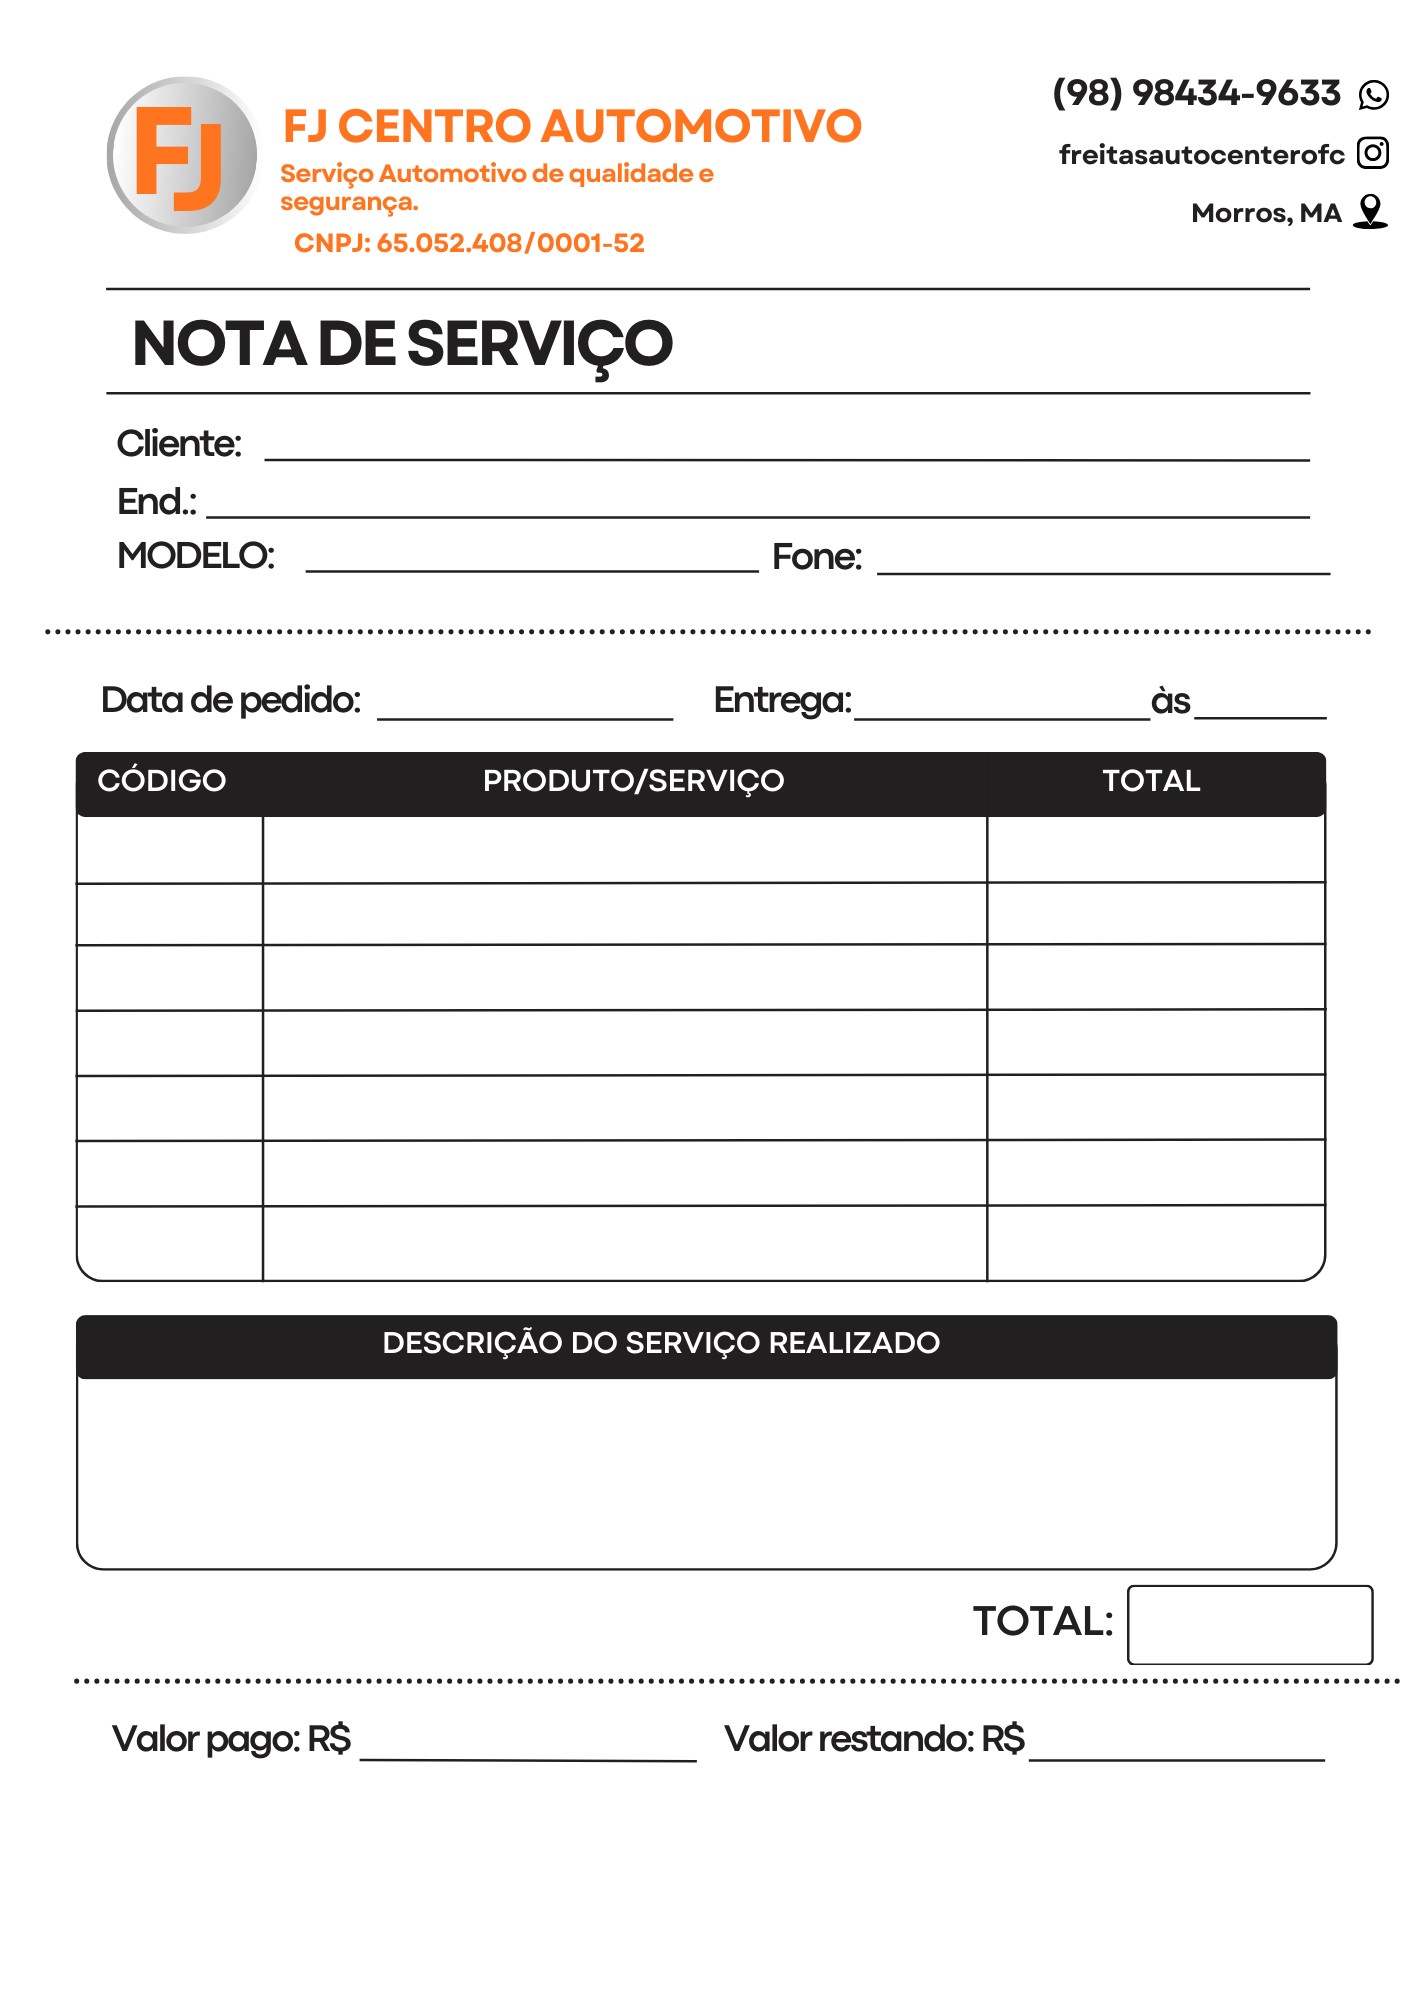
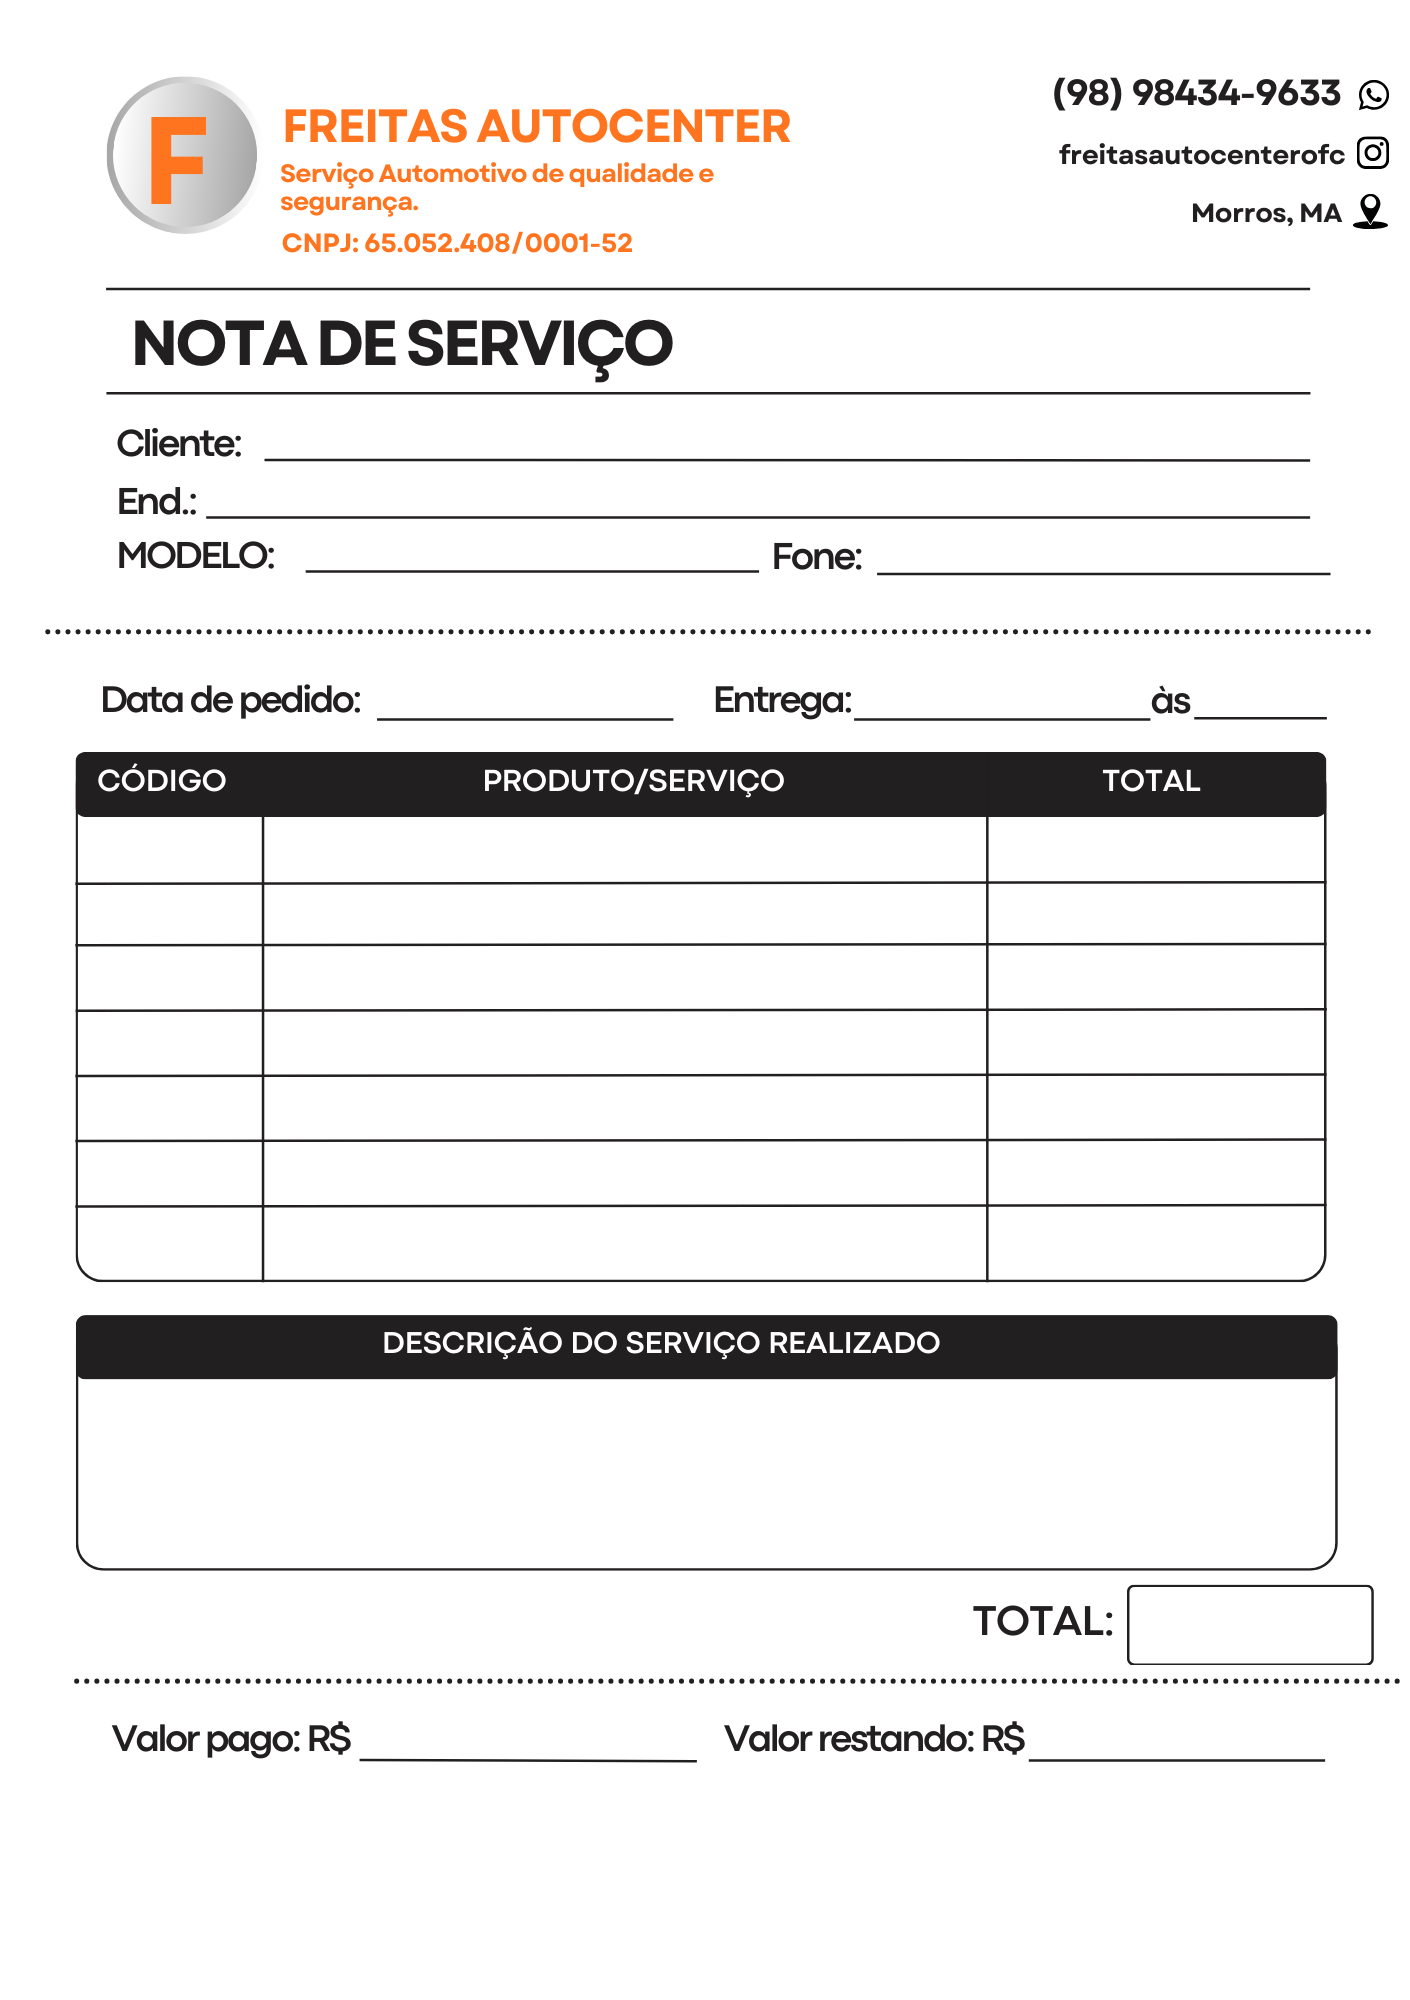
fix: add ItemType tracking to properly distinguish labor, products, and custom items in UI and PDF

Changed region(s): [[0.2184, 0.031, 0.5929, 0.124], [0.0936, 0.031, 0.156, 0.124]]

diff --git a/OficinaWeb/Models/ManutencaoModels.cs b/OficinaWeb/Models/ManutencaoModels.cs
@@ -25,7 +25,6 @@ namespace OficinaWeb.Models
     {
         public string PaymentMethod { get; set; } = "";
         public decimal Amount { get; set; }
-
         public DateTime PaymentDate { get; set; } = DateTime.Now;
     }
 
@@ -46,7 +45,21 @@ namespace OficinaWeb.Models
     }
 
     public class VehicleDTO { public string Model { get; set; } = ""; public string CustomerName { get; set; } = ""; public string CustomerAddress { get; set; } = ""; public string CustomerPhone { get; set; } = ""; }
-    public class ServiceItemDTO { public int Id { get; set; } public string Description { get; set; } = ""; public decimal Price { get; set; } public int? ProductId { get; set; } public string? WarrantyPeriod { get; set; } public EmployeeListDTO? Mechanic { get; set; } public int Quantity { get; set; } = 1; }
+
+    public class ServiceItemDTO
+    {
+        public int Id { get; set; }
+        public string Description { get; set; } = "";
+        public decimal Price { get; set; }
+        public int? ProductId { get; set; }
+        public string? WarrantyPeriod { get; set; }
+        public EmployeeListDTO? Mechanic { get; set; }
+        public int Quantity { get; set; } = 1;
+
+        // 👉 A PROPRIEDADE NOVA ADICIONADA AQUI:
+        public string ItemType { get; set; } = "Product";
+    }
+
     public class ProductListDTO { public int id { get; set; } public string code { get; set; } = ""; public string name { get; set; } = ""; public decimal salePrice { get; set; } }
     public class EmployeeListDTO { public int id { get; set; } public string name { get; set; } = ""; }
     public class LaborServiceDTO { public int Id { get; set; } public string Name { get; set; } = ""; public decimal DefaultPrice { get; set; } }

diff --git a/OficinaAPI/Controllers/ServiceOrdersController.cs b/OficinaAPI/Controllers/ServiceOrdersController.cs
@@ -88,6 +88,13 @@ namespace OficinaAPI.Controllers
             };
 
             os.TotalAmount += newItem.Price;
+
+            // INTELIGÊNCIA NOVA: Se a OS já está finalizada, desconta do estoque na mesma hora
+            if (os.Status == "Completed")
+            {
+                product.StockQuantity -= itemDto.Quantity;
+            }
+
             _context.ServiceItems.Add(newItem);
             await _context.SaveChangesAsync();
             return Ok(newItem);
@@ -263,6 +270,17 @@ namespace OficinaAPI.Controllers
             {
                 os.TotalAmount -= item.Price;
                 os.TotalAmount += request.Price;
+
+                // INTELIGÊNCIA NOVA: Se a OS está fechada e o mecânico mudou a QUANTIDADE de uma peça de estoque
+                if (os.Status == "Completed" && item.ProductId != null)
+                {
+                    var product = await _context.Products.FindAsync(item.ProductId);
+                    if (product != null)
+                    {
+                        var diff = request.Quantity - item.Quantity;
+                        product.StockQuantity -= diff;
+                    }
+                }
             }
 
             item.Description = request.Description;

diff --git a/OficinaAPI/Migrations/20260311122828_AddItemType.Designer.cs b/OficinaAPI/Migrations/20260311122828_AddItemType.Designer.cs
@@ -3,6 +3,7 @@ using System;
 using Microsoft.EntityFrameworkCore;
 using Microsoft.EntityFrameworkCore.Infrastructure;
 using Microsoft.EntityFrameworkCore.Metadata;
+using Microsoft.EntityFrameworkCore.Migrations;
 using Microsoft.EntityFrameworkCore.Storage.ValueConversion;
 using OficinaAPI.Data;
 
@@ -11,9 +12,11 @@ using OficinaAPI.Data;
 namespace OficinaAPI.Migrations
 {
     [DbContext(typeof(OficinaContext))]
-    partial class OficinaContextModelSnapshot : ModelSnapshot
+    [Migration("20260311122828_AddItemType")]
+    partial class AddItemType
     {
-        protected override void BuildModel(ModelBuilder modelBuilder)
+        /// <inheritdoc />
+        protected override void BuildTargetModel(ModelBuilder modelBuilder)
         {
 #pragma warning disable 612, 618
             modelBuilder

diff --git a/OficinaAPI/Migrations/20260311122828_AddItemType.cs b/OficinaAPI/Migrations/20260311122828_AddItemType.cs
@@ -1,0 +1,29 @@
+using Microsoft.EntityFrameworkCore.Migrations;
+
+#nullable disable
+
+namespace OficinaAPI.Migrations
+{
+    /// <inheritdoc />
+    public partial class AddItemType : Migration
+    {
+        /// <inheritdoc />
+        protected override void Up(MigrationBuilder migrationBuilder)
+        {
+            migrationBuilder.AddColumn<string>(
+                name: "ItemType",
+                table: "ServiceItems",
+                type: "nvarchar(max)",
+                nullable: false,
+                defaultValue: "");
+        }
+
+        /// <inheritdoc />
+        protected override void Down(MigrationBuilder migrationBuilder)
+        {
+            migrationBuilder.DropColumn(
+                name: "ItemType",
+                table: "ServiceItems");
+        }
+    }
+}

diff --git a/OficinaAPI/Controllers/BackupController.cs b/OficinaAPI/Controllers/BackupController.cs
@@ -97,7 +97,7 @@ namespace OficinaAPI.Controllers
         private string GerarTemplateHtmlOS(ServiceOrder os)
         {
             var sb = new StringBuilder();
-            sb.AppendLine("<html><body style='font-family:sans-serif;'><h1>FJ CENTRO AUTOMOTIVO - OS #" + os.Id + "</h1>");
+            sb.AppendLine("<html><body style='font-family:sans-serif;'><h1>FREITAS AUTOCENTER - OS #" + os.Id + "</h1>");
             sb.AppendLine("<table border='1' width='100%'><tr><th>Item</th><th>Preço</th></tr>");
             foreach (var item in os.Items) { sb.AppendLine($"<tr><td>{item.Description}</td><td>{item.Price:N2}</td></tr>"); }
             sb.AppendLine("</table><p>Total: " + os.TotalAmount.ToString("C2") + "</p></body></html>");

diff --git a/OficinaAPI/Models/ServiceOrder.cs b/OficinaAPI/Models/ServiceOrder.cs
@@ -43,6 +43,9 @@ namespace OficinaAPI.Models
         public decimal Price { get; set; }
         public string? WarrantyPeriod { get; set; }
         public DateTime? WarrantyExpirationDate { get; set; }
+
+        // NOVA COLUNA ADICIONADA AQUI:
+        public string ItemType { get; set; } = "Product";
     }
 
     public class Vehicle
